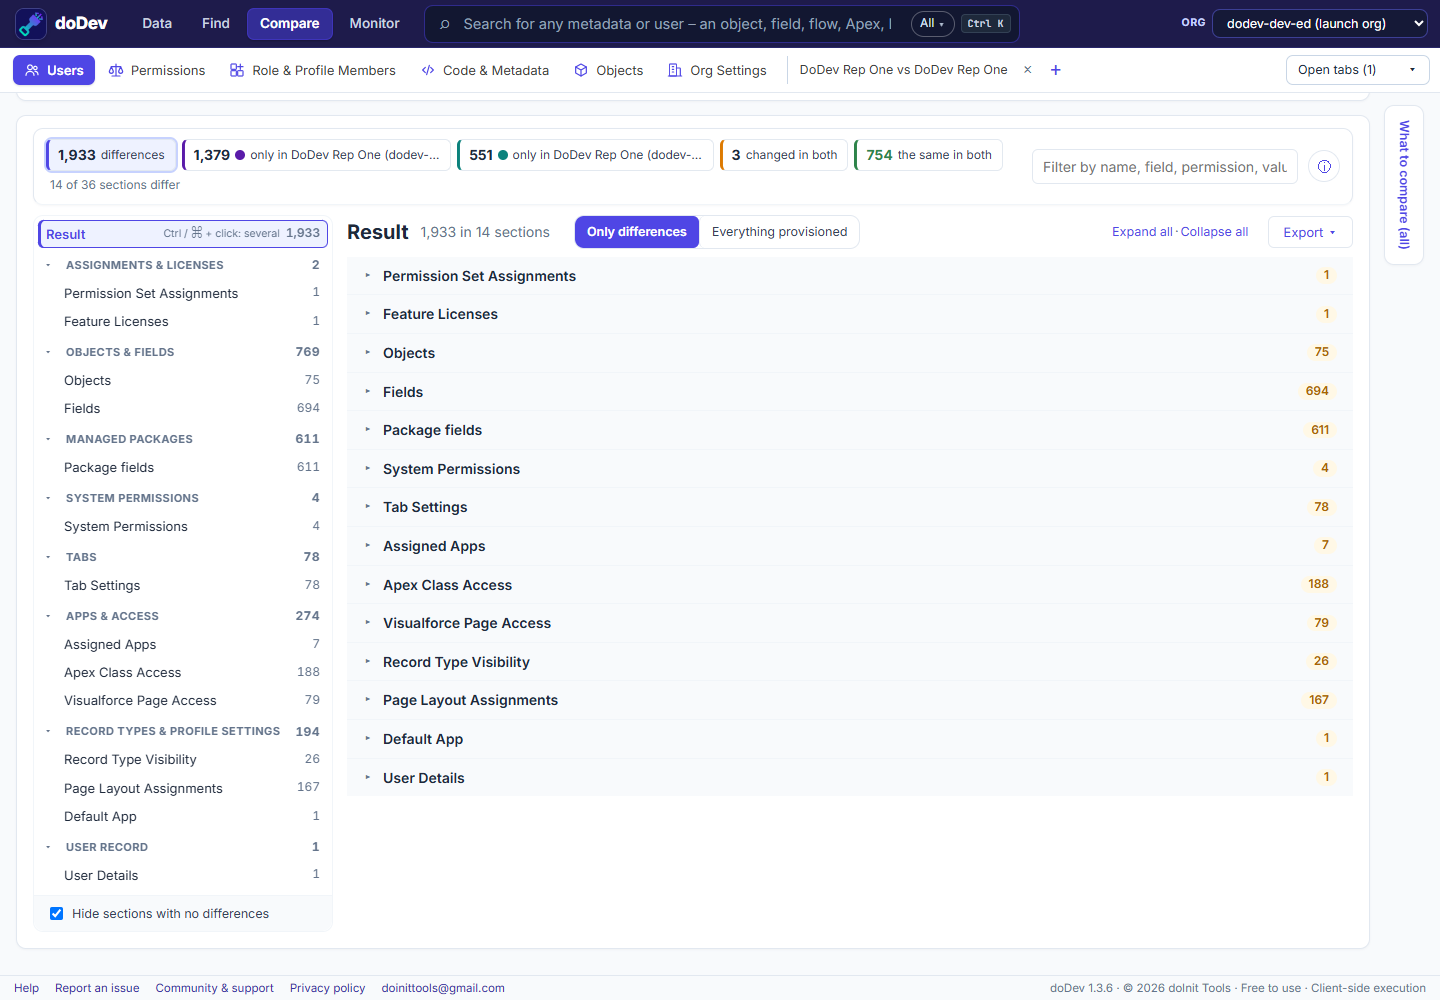
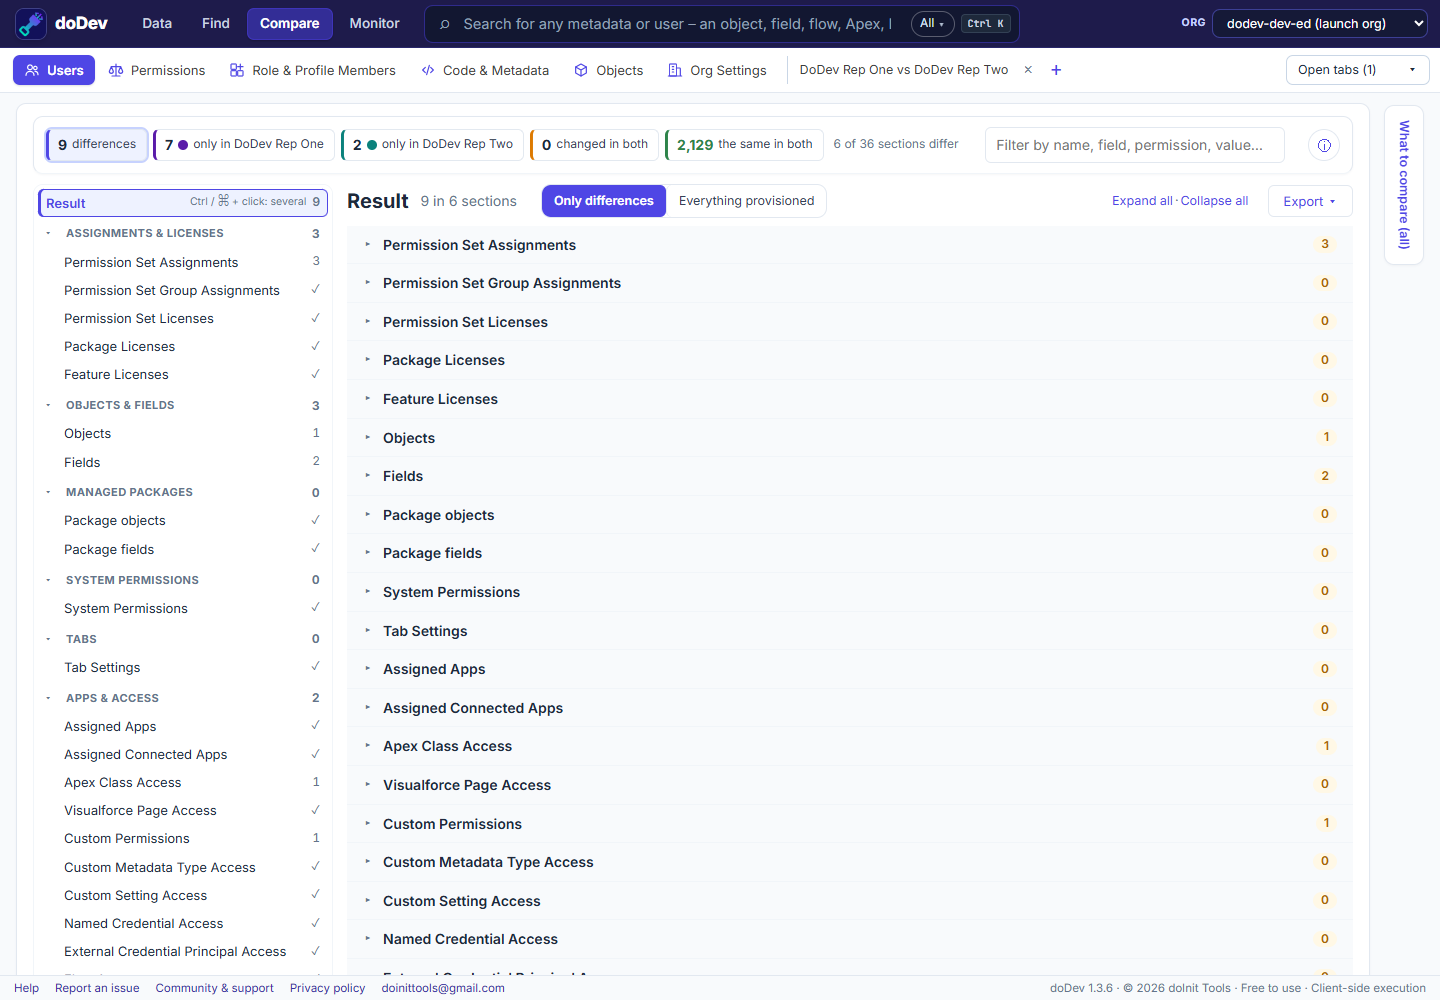
How-to: five more compare guides, Salesforce in every title, full-section screenshots
- New: compare a profile between two orgs, a profile with a permission set,
  a permission set between sandbox and production, permission set groups,
  and a user in two orgs - each around its own real situation
- Every guide title and heading says Salesforce
- Compare screenshots list every section (identical ones marked) instead of
  only objects and fields; compare two users shows two users in one org
- Guides index grouped by topic; related links between the compare guides

diff --git a/how-to/index.md b/how-to/index.md
@@ -1,38 +1,46 @@
 ---
 title: Salesforce how-to guides – access, permissions, data and compare
-description: Short guides for Salesforce admins and developers – who has access and why, compare profiles, users and orgs, query and import data, find metadata and monitor Apex jobs.
+description: Short guides for Salesforce admins and developers – who has access and why, compare profiles, permission sets, users and orgs, query and import data, find metadata and monitor Apex jobs.
 ---
 
 # Salesforce how-to guides
 
 Short answers to questions Salesforce admins and developers ask every day – what Salesforce Setup shows, the manual way, and the quicker way with doDev, a free Chrome extension.
 
-## Access and permissions
+## Access and permissions in Salesforce
 
-- [How to see who has access to a field](who-has-access-to-a-field)
-- [How to find users with a system permission (e.g. Export Reports)](users-with-a-system-permission)
-- [How to see who can access a record – and why](why-can-a-user-see-a-record)
-- [How to see everything a user can access](everything-a-user-can-access)
+- [How to see who has access to a field in Salesforce](who-has-access-to-a-field)
+- [How to find users with a system permission in Salesforce (e.g. Export Reports)](users-with-a-system-permission)
+- [How to see who can access a record in Salesforce – and why](why-can-a-user-see-a-record)
+- [How to see everything a Salesforce user can access](everything-a-user-can-access)
 
-## Compare
+## Compare profiles, permission sets and users in Salesforce
 
-- [How to compare two profiles or permission sets](compare-profiles-and-permission-sets)
-- [Why can one user do something another can't? Compare two users](compare-two-users)
-- [What do all users in a role or profile have – and who is different?](role-and-profile-members)
-- [How to compare Apex and metadata between sandbox and production](compare-apex-and-metadata-between-orgs)
-- [How to compare an object between two orgs](compare-an-object-between-orgs)
-- [How to compare settings between two orgs](compare-org-settings)
+- [How to compare two profiles or permission sets in Salesforce](compare-profiles-and-permission-sets)
+- [How to compare a profile between two Salesforce orgs (sandbox vs production)](compare-profiles-between-two-salesforce-orgs)
+- [How to compare a profile with a permission set in Salesforce](compare-profile-with-permission-set)
+- [How to compare a permission set between Salesforce sandbox and production](compare-permission-sets-between-sandbox-and-production)
+- [How to compare permission set groups in Salesforce](compare-permission-set-groups)
+- [How to compare two users in Salesforce](compare-two-users)
+- [How to compare a user in two Salesforce orgs](compare-users-in-two-salesforce-orgs)
+- [What do all users in a Salesforce role or profile have – and who is different?](role-and-profile-members)
 
-## Data
+## Compare Salesforce orgs
+
+- [How to compare Apex and metadata between Salesforce sandbox and production](compare-apex-and-metadata-between-orgs)
+- [How to compare a Salesforce object between two orgs](compare-an-object-between-orgs)
+- [How to compare settings between two Salesforce orgs](compare-org-settings)
+
+## Salesforce data
 
 - [How to query Salesforce data without writing SOQL](query-salesforce-data-without-soql)
-- [How to import, update or delete records from a CSV or Excel](import-update-delete-records-from-csv)
+- [How to import, update or delete Salesforce records from a CSV or Excel](import-update-delete-records-from-csv)
 
-## Find and monitor
+## Find and monitor in Salesforce
 
-- [How to find any metadata in an org – objects, fields, flows, Apex](find-any-metadata)
-- [How to find where a field is used before you change or delete it](where-is-a-field-used)
-- [How to monitor scheduled and failed Apex jobs](monitor-scheduled-apex-jobs)
+- [How to find any metadata in a Salesforce org – objects, fields, flows, Apex](find-any-metadata)
+- [How to find where a field is used in Salesforce before you change or delete it](where-is-a-field-used)
+- [How to monitor scheduled and failed Apex jobs in Salesforce](monitor-scheduled-apex-jobs)
 
 ---
 

diff --git a/how-to/compare-profiles-between-two-salesforce-orgs.md b/how-to/compare-profiles-between-two-salesforce-orgs.md
@@ -1,0 +1,41 @@
+---
+title: How to compare a profile between two Salesforce orgs (sandbox vs production)
+description: Compare the same Salesforce profile in a sandbox and in production – objects, fields, system permissions, tabs, apps, Apex and every other section – and see what drifted.
+image: /how-to/img/compare-profiles-between-two-salesforce-orgs.png
+---
+
+# How to compare a profile between two Salesforce orgs
+
+**The situation:** a profile is "the same" in your sandbox and in production – until a user says something works in one and not the other. Profiles drift: a field added in production without its field-level security, a deployment that only carried part of the profile, a manual change after a refresh. Salesforce can't compare a profile across orgs. doDev, a free Chrome extension, does it in one click.
+
+![The same Salesforce profile compared in two orgs with doDev: the counts of what differs, and every section – objects, fields, packages, system permissions, tabs, apps, Apex – with what differs and ✓ where it is the same](img/compare-profiles-between-two-salesforce-orgs.png)
+
+## Compare the profile across orgs with doDev
+
+1. [Install doDev](https://chromewebstore.google.com/detail/agcjfjpmlmfbdbgfohficnccnknimhbd?utm_source=dodev-site&utm_medium=how-to) and log into **both orgs in the same browser** – e.g. your UAT sandbox in one tab and production in another.
+2. Open doDev and go to **Compare → Permissions**.
+3. In the first box pick the first org and the profile; in the second box pick the other org and the same profile.
+4. Click **Compare**.
+
+You get:
+
+- **Counts** – differences, only in the first org, only in the second, changed in both, the same in both. Click one to filter.
+- **Every section** of the profile: objects, fields, managed package objects and fields, system permissions, tabs, assigned apps and connected apps, Apex classes, Visualforce pages, custom permissions, custom metadata and settings, named credentials, flows, record types and page layout assignments. Sections that are the same are marked ✓, so you can see everything was checked.
+- **Items matched by API name**, not record Id – which is what makes a cross-org comparison meaningful.
+- **Export** – CSV or Excel for the review, or a *gap permission set* with what one org's profile grants and the other's lacks.
+
+## Why profiles drift between orgs
+
+- **Partial deployments** – a profile deployed with the Metadata API only carries the permissions for the components in the same deployment.
+- **New fields** created directly in production get field-level security only on the profiles chosen at that moment.
+- **Sandbox refreshes** copy production, but changes made in the sandbox afterwards don't flow back.
+
+## Doing it without a tool
+
+Retrieve the profile from both orgs with the Salesforce CLI and compare the XML. Include every object, field, class and page in the same `package.xml`, or the retrieved profile leaves those permissions out and the comparison looks cleaner than it is.
+
+Related: [compare two profiles or permission sets in one org](compare-profiles-and-permission-sets) · [compare a user in two orgs](compare-users-in-two-salesforce-orgs) · [compare a permission set between sandbox and production](compare-permission-sets-between-sandbox-and-production)
+
+---
+
+More how-to guides: [all guides](./) · [doDev help](../help/#ps)

diff --git a/how-to/compare-profile-with-permission-set.md b/how-to/compare-profile-with-permission-set.md
@@ -1,0 +1,38 @@
+---
+title: How to compare a profile with a permission set in Salesforce
+description: Compare a Salesforce profile with a permission set – see what the profile grants that the permission set doesn't – and build a permission set to move profile permissions out.
+image: /how-to/img/compare-profile-with-permission-set.png
+---
+
+# How to compare a profile with a permission set in Salesforce
+
+**The situation:** Salesforce recommends keeping profiles minimal and granting access through permission sets and permission set groups. To move a profile's permissions into a permission set, you first need to know exactly what the profile grants that the permission set doesn't. Salesforce can't put a profile and a permission set side by side. doDev, a free Chrome extension, can.
+
+![A Salesforce profile compared with a permission set in doDev: the objects the profile grants (green) and the permission set grants (red), and every other section](img/compare-profile-with-permission-set.png)
+
+## Compare them with doDev
+
+1. [Install doDev](https://chromewebstore.google.com/detail/agcjfjpmlmfbdbgfohficnccnknimhbd?utm_source=dodev-site&utm_medium=how-to) and open it from the toolbar while you are logged into Salesforce.
+2. Go to **Compare → Permissions**.
+3. Pick the **profile** in the first box and the **permission set** in the second (a permission set group works too).
+4. Click **Compare**.
+
+You get:
+
+- **Objects and fields** – a green ✓ for what only the profile grants, a red ✓ for what only the permission set grants, grey for both.
+- **System permissions, tabs, apps, connected apps, Apex classes, Visualforce pages, custom permissions** and the other sections both can hold.
+- **Export → gap permission set** – *Make the permission set match the profile* downloads a deployable permission set with everything the profile grants and the permission set lacks. Deploy it with your usual tool, assign it, and the profile can be slimmed down.
+
+## What is not compared
+
+Some settings exist only on profiles and can't move to a permission set, so doDev leaves them out of a profile-vs-permission-set comparison and says so: page layout assignments, the default app, default record types, login IP ranges, login hours and the user licence.
+
+## Doing it without a tool
+
+Open the profile and the permission set in Setup and walk through each section, or retrieve both with the Salesforce CLI and compare the `.profile-meta.xml` and `.permissionset-meta.xml` files – the two formats differ, so they don't diff cleanly.
+
+Related: [compare two profiles or permission sets](compare-profiles-and-permission-sets) · [compare permission set groups](compare-permission-set-groups) · [see everything a user can access](everything-a-user-can-access)
+
+---
+
+More how-to guides: [all guides](./) · [doDev help](../help/#ps)

diff --git a/how-to/compare-permission-sets-between-sandbox-and-production.md b/how-to/compare-permission-sets-between-sandbox-and-production.md
@@ -1,0 +1,38 @@
+---
+title: How to compare a permission set between Salesforce sandbox and production
+description: Check that a Salesforce permission set deployed completely – compare it between sandbox and production, section by section, and get a deployable file for what is missing.
+image: /how-to/img/compare-permission-sets-between-sandbox-and-production.png
+---
+
+# How to compare a permission set between Salesforce sandbox and production
+
+**The situation:** you deployed a permission set and want to be sure production now matches the sandbox – or you inherited an org and want to know how far the two have drifted. Field permissions are the usual gap: they only deploy for fields included in the same deployment. doDev, a free Chrome extension, compares the permission set in both orgs and lists every difference.
+
+![A Salesforce permission set compared between two orgs in doDev: 7 differences in objects and fields, and every other section marked ✓ the same](img/compare-permission-sets-between-sandbox-and-production.png)
+
+## Compare it with doDev
+
+1. [Install doDev](https://chromewebstore.google.com/detail/agcjfjpmlmfbdbgfohficnccnknimhbd?utm_source=dodev-site&utm_medium=how-to) and log into **both orgs in the same browser**.
+2. Open doDev and go to **Compare → Permissions**.
+3. Pick the sandbox and the permission set in the first box, production and the same permission set in the second.
+4. Click **Compare**.
+
+You get:
+
+- **What differs** – only in the sandbox, only in production, changed in both – by section.
+- **Every section, the identical ones too** – objects, fields, system permissions, tabs, apps, connected apps, Apex, Visualforce, custom permissions, custom metadata and settings, named credentials, flows – so you can see the whole permission set was checked, not only the parts that differ.
+- **Objects and fields** as a grid, one column per permission, with the field differences one click away.
+- **Export → gap permission set** – a deployable file that grants production what the sandbox has. Deploy it with your usual tool.
+
+## A quick post-deployment check
+
+1. Compare the permission set right after the deployment.
+2. Look at **Fields** first – new fields without their field permissions are the most common miss.
+3. Then **Apex Class Access** and **Custom Permissions** – classes and custom permissions added in the release.
+4. Export the CSV for the release notes.
+
+Related: [compare a profile between two orgs](compare-profiles-between-two-salesforce-orgs) · [compare Apex and metadata between orgs](compare-apex-and-metadata-between-orgs) · [compare permission set groups](compare-permission-set-groups)
+
+---
+
+More how-to guides: [all guides](./) · [doDev help](../help/#ps)

diff --git a/how-to/compare-users-in-two-salesforce-orgs.md b/how-to/compare-users-in-two-salesforce-orgs.md
@@ -1,0 +1,38 @@
+---
+title: How to compare a user in two Salesforce orgs – works in sandbox, not in production
+description: Compare the same Salesforce user in a sandbox and in production – profile, permission sets, groups, licences and every permission – to find why something works in one org and not the other.
+image: /how-to/img/compare-users-in-two-salesforce-orgs.png
+---
+
+# How to compare a user in two Salesforce orgs
+
+**The situation:** "It worked in UAT." A tester could do something in the sandbox, but the same person can't in production. Their access is the sum of a profile, permission sets, permission set groups, licences and more – in two orgs. Salesforce can't compare a user across orgs. doDev, a free Chrome extension, puts the two side by side.
+
+![The same Salesforce user compared in two orgs with doDev: differences by section – assignments, licences, objects, fields, packages, system permissions, tabs, apps and Apex](img/compare-users-in-two-salesforce-orgs.png)
+
+## Compare the user across orgs with doDev
+
+1. [Install doDev](https://chromewebstore.google.com/detail/agcjfjpmlmfbdbgfohficnccnknimhbd?utm_source=dodev-site&utm_medium=how-to) and log into **both orgs in the same browser**.
+2. Open doDev and go to **Compare → Users**.
+3. In the first box pick the first org and the user; in the second box pick the other org and the same person. (Sandbox usernames usually carry a suffix such as `.uat` – search by name.)
+4. Click **Compare**.
+
+You get:
+
+- **Assignments and licences** – permission sets, permission set groups, permission set licences, package and feature licences in each org.
+- **Every permission**, combined from the profile, permission sets and groups – objects, fields, system permissions, tabs, apps, Apex, pages, custom permissions and more.
+- **Via what** – each difference says which profile, permission set or group grants it, in which org.
+- **Groups, queues, teams, territories, the role path and the user record** – e.g. a different role or a missing public group explains a sharing difference.
+- **Export** – CSV or Excel, or a *gap permission set* with what the user has in one org and lacks in the other.
+
+## Common causes
+
+- A **permission set assigned in the sandbox** but never in production (assignments are data, not metadata – they don't deploy).
+- A **permission set licence** available in one org only.
+- The **profile itself differs** between the orgs – see [compare a profile between two orgs](compare-profiles-between-two-salesforce-orgs).
+
+Related: [compare two users in one org](compare-two-users) · [see everything a user can access](everything-a-user-can-access)
+
+---
+
+More how-to guides: [all guides](./) · [doDev help](../help/#users)

diff --git a/how-to/compare-permission-set-groups.md b/how-to/compare-permission-set-groups.md
@@ -1,0 +1,37 @@
+---
+title: How to compare permission set groups in Salesforce
+description: Compare two Salesforce permission set groups – their member permission sets and their combined permissions after muting – objects, fields, system permissions, tabs, apps and Apex.
+image: /how-to/img/compare-permission-set-groups.png
+---
+
+# How to compare permission set groups in Salesforce
+
+**The situation:** permission set groups bundle permission sets for a job – *Sales Rep*, *Sales Manager*. Over time two groups for similar roles overlap or drift, and muting permission sets make it harder still to say what a group really grants. Salesforce shows a group's combined permissions one group at a time. doDev, a free Chrome extension, compares two or more groups side by side.
+
+![Two Salesforce permission set groups compared in doDev: the member permission sets that differ, objects, fields, system permissions, tabs, Apex and custom permissions, with ✓ for sections that are the same](img/compare-permission-set-groups.png)
+
+## Compare them with doDev
+
+1. [Install doDev](https://chromewebstore.google.com/detail/agcjfjpmlmfbdbgfohficnccnknimhbd?utm_source=dodev-site&utm_medium=how-to) and open it from the toolbar while you are logged into Salesforce.
+2. Go to **Compare → Permissions**.
+3. Pick two to five permission set groups – from one org, or the same group in two orgs.
+4. Click **Compare**.
+
+You get:
+
+- **Group components** – the permission sets (and muting permission sets) in each group.
+- **The combined permissions after muting** – Salesforce's calculated permissions for the group, so a muted permission doesn't show as granted.
+- **Every section** – objects, fields, system permissions, tabs, apps, connected apps, Apex, Visualforce, custom permissions and more – with ✓ where the groups agree.
+- **Export** – CSV or Excel, or a gap permission set.
+
+You can also compare a group with a single permission set or a profile – e.g. to check that a new group covers everything an old profile granted.
+
+## Good to know
+
+Record type visibility is not part of a group's calculated permissions, so doDev reads it from the member permission sets (without muting).
+
+Related: [compare two profiles or permission sets](compare-profiles-and-permission-sets) · [compare a profile with a permission set](compare-profile-with-permission-set) · [who has access to a field – including through groups](who-has-access-to-a-field)
+
+---
+
+More how-to guides: [all guides](./) · [doDev help](../help/#ps)

diff --git a/how-to/compare-profiles-and-permission-sets.md b/how-to/compare-profiles-and-permission-sets.md
@@ -1,14 +1,14 @@
 ---
 title: How to compare two profiles or permission sets in Salesforce
 description: Compare Salesforce profiles, permission sets and permission set groups side by side – objects, fields, system permissions, Apex and tabs – even across a sandbox and production org.
-image: /how-to/img/compare-permission-sets.png
+image: /how-to/img/compare-profiles-and-permission-sets.png
 ---
 
 # How to compare two profiles or permission sets in Salesforce
 
 **Short answer:** Salesforce Setup has no compare button for profiles or permission sets. You either open them one by one, export them with the Metadata API and diff the files, or use a tool that lines them up for you. doDev, a free Chrome extension, shows every difference in one table – including between two orgs.
 
-![Two permission sets compared in doDev: object permissions side by side, green for only in the first, red for only in the second](img/compare-permission-sets.png)
+![Two profiles compared in doDev: system permissions that differ, and every section of the comparison – objects, fields, tabs, apps, Apex, connected apps – with ✓ where they are the same](img/compare-profiles-and-permission-sets.png)
 
 ## Compare them with doDev
 
@@ -38,6 +38,8 @@ When the question is "why can Anna do this and Ben can't?", use **Compare → Us
 **Can I compare a permission set group?** Yes – doDev uses the group's combined permissions, after muting.
 
 **Does it change anything in my org?** No. Comparing only reads. doDev runs in your browser with your existing Salesforce login; nothing is installed in the org.
+
+Related: [compare a profile between two orgs](compare-profiles-between-two-salesforce-orgs) · [compare a profile with a permission set](compare-profile-with-permission-set) · [compare a permission set between sandbox and production](compare-permission-sets-between-sandbox-and-production) · [compare permission set groups](compare-permission-set-groups)
 
 ---
 

diff --git a/how-to/compare-two-users.md b/how-to/compare-two-users.md
@@ -1,14 +1,14 @@
 ---
-title: Why can one Salesforce user do something another can't? Compare two users
+title: How to compare two users in Salesforce – why can one do what another can't?
 description: Compare two to five Salesforce users side by side – profile, permission sets, groups, licences, queues, role – and see which one grants each difference.
 image: /how-to/img/compare-two-users.png
 ---
 
-# Why can one Salesforce user do something another can't?
+# How to compare two users in Salesforce – why can one do what another can't?
 
 **Short answer:** two users with the same job title often have different access, because it adds up from a profile, several permission sets and permission set groups – plus licences, public groups, queues and the role. Salesforce has no side-by-side view of two users. doDev, a free Chrome extension, compares them and says what grants each difference.
 
-![Two users compared in doDev: every difference by section – permission set assignments, objects, fields, system permissions, apps and more](img/compare-two-users.png)
+![Two users in one Salesforce org compared in doDev: permission set assignments, objects, fields, Apex and custom permissions that differ, every other section marked ✓ the same](img/compare-two-users.png)
 
 ## Compare them with doDev
 
@@ -27,6 +27,8 @@ You get:
 ## Doing it without a tool
 
 Open both users' records, note their profile and every permission set and group, and compare those one by one in Setup – or query `PermissionSetAssignment` for each user and diff the permissions yourself.
+
+Related: [compare a user in two Salesforce orgs](compare-users-in-two-salesforce-orgs) · [see everything a user can access](everything-a-user-can-access) · [role and profile members](role-and-profile-members)
 
 ---
 

diff --git a/how-to/compare-apex-and-metadata-between-orgs.md b/how-to/compare-apex-and-metadata-between-orgs.md
@@ -1,10 +1,10 @@
 ---
-title: How to compare Apex and metadata between sandbox and production
+title: How to compare Apex and metadata between Salesforce sandbox and production
 description: Compare Apex classes, triggers, LWC, flows and other metadata between two Salesforce orgs – a project tree of what changed and a side-by-side diff – before a deployment.
 image: /how-to/img/compare-apex-and-metadata-between-orgs.png
 ---
 
-# How to compare Apex and metadata between sandbox and production
+# How to compare Apex and metadata between Salesforce sandbox and production
 
 **Short answer:** change sets don't show what is different between two orgs. The usual way is to retrieve both orgs' metadata with the Salesforce CLI and compare the folders in an editor. doDev, a free Chrome extension, compares the two orgs you are logged into directly and shows a side-by-side diff.
 

diff --git a/how-to/role-and-profile-members.md b/how-to/role-and-profile-members.md
@@ -4,7 +4,7 @@ description: See which permission sets, groups and licences everyone in a Salesf
 image: /how-to/img/role-and-profile-members.png
 ---
 
-# What do all users in a role or profile have – and who is different?
+# What do all users in a Salesforce role or profile have – and who is different?
 
 **Short answer:** people in the same role or profile drift apart over time – one gets an extra permission set, another misses one. Salesforce lists the users of a profile, but not what they hold beyond it. doDev, a free Chrome extension, builds a matrix of everyone in the role or profile and what they hold.
 
